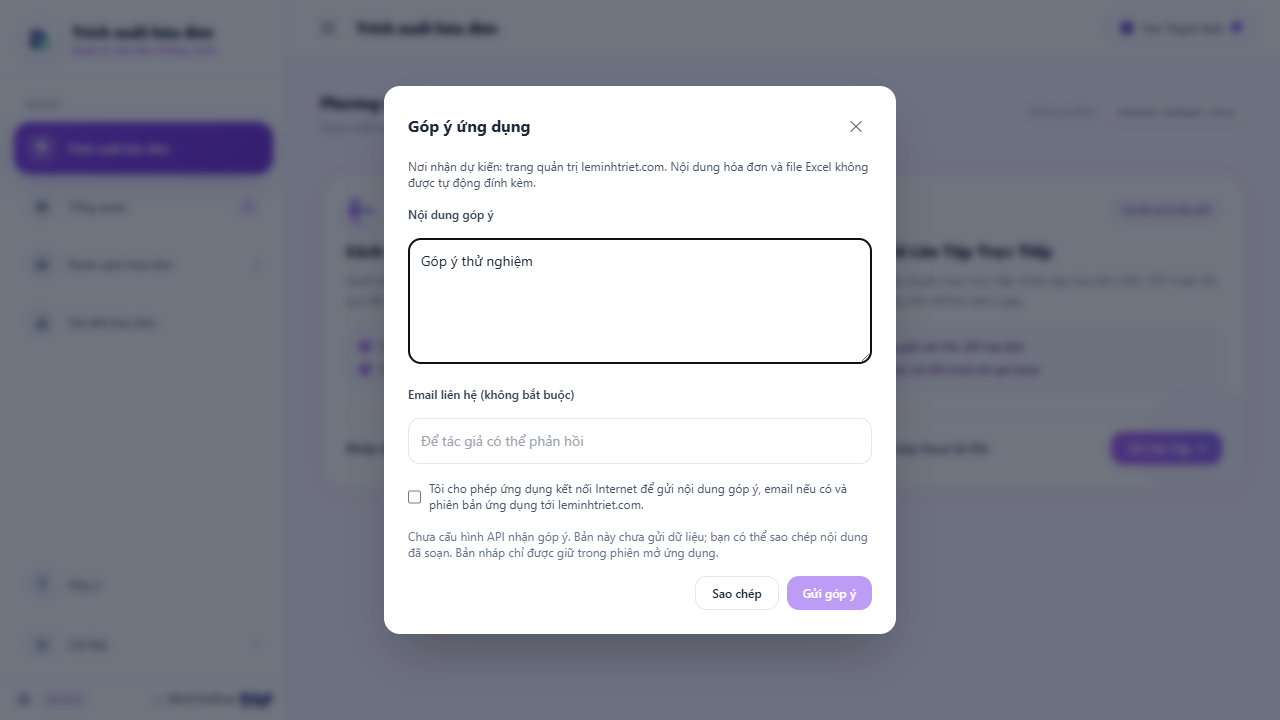
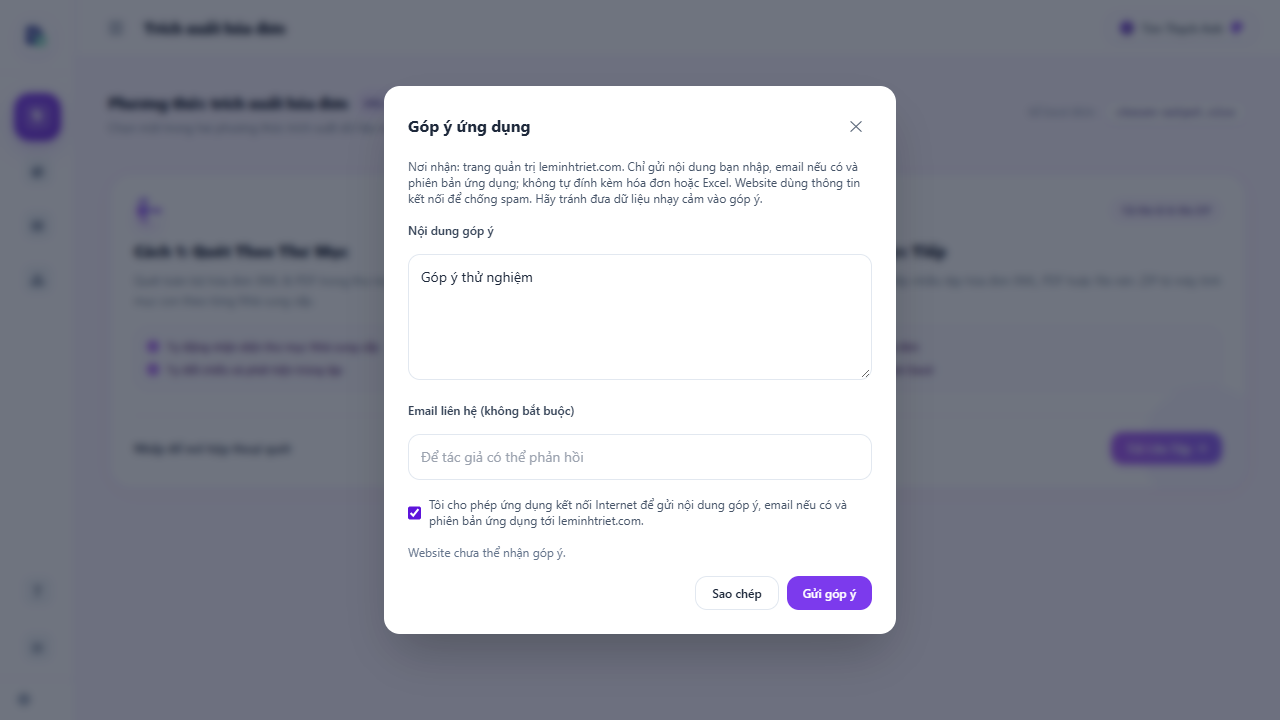
Send opted-in feedback to the website with explicit idempotent retries

diff --git a/static/js/app.js b/static/js/app.js
@@ -2681,42 +2681,68 @@ async function loadOnboarding() {
     updateOnboardingButton();
 }
 
-// Không kết nối mạng khi mở/soạn góp ý; chỉ bật gửi sau khi tích hợp API thật.
+// Gửi chỉ qua thao tác chủ động và đồng ý từng lần; không có gửi nền.
 function initFeedback() {
     const modal = document.getElementById('feedback-modal');
     const open = document.getElementById('btn-open-feedback');
     const message = document.getElementById('feedback-message');
+    const email = document.getElementById('feedback-email');
     const copy = document.getElementById('btn-copy-feedback');
     const consent = document.getElementById('feedback-consent');
-    let previousFocus;
+    const send = document.getElementById('btn-send-feedback');
+    const closeButton = document.getElementById('btn-close-feedback');
+    const status = document.getElementById('feedback-status');
+    let previousFocus, busy = false, requestId, previousPayload;
+    const update = () => {
+        send.disabled = busy || !consent.checked || message.value.trim().length < 10 || message.value.trim().length > 4000 || !email.checkValidity();
+        copy.disabled = busy || !message.value.trim();
+        [message, email, consent, closeButton].forEach(element => {element.disabled = busy;});
+    };
     const close = () => {
+        if (busy) return;
         modal.classList.add('hidden'); modal.classList.remove('flex');
-        consent.checked = false;
-        setAppInert(false);
-        previousFocus?.focus();
+        consent.checked = false; update(); setAppInert(false); previousFocus?.focus();
     };
     open.addEventListener('click', () => {
         previousFocus = document.activeElement;
-        consent.checked = false;
+        consent.checked = false; update();
         modal.classList.remove('hidden'); modal.classList.add('flex');
         setAppInert(true); message.focus();
     });
-    document.getElementById('btn-close-feedback').addEventListener('click', close);
+    closeButton.addEventListener('click', close);
     modal.addEventListener('click', event => {if (event.target === modal) close();});
     document.addEventListener('keydown', event => {
         if (modal.classList.contains('hidden')) return;
         if (event.key === 'Escape') {event.preventDefault(); close();}
         else trapDialogTab(event, modal);
     });
-    message.addEventListener('input', () => {copy.disabled = !message.value.trim();});
+    [message, email, consent].forEach(element => element.addEventListener('input', update));
     copy.addEventListener('click', async () => {
-        const email = document.getElementById('feedback-email').value.trim();
         try {
-            await navigator.clipboard.writeText(message.value.trim() + (email ? `\nEmail: ${email}` : ''));
-            document.getElementById('feedback-status').textContent = 'Đã sao chép bản nháp. Chưa gửi dữ liệu lên Internet.';
+            await navigator.clipboard.writeText(message.value.trim() + (email.value.trim() ? `\nEmail: ${email.value.trim()}` : ''));
+            status.textContent = 'Đã sao chép bản nháp.';
         } catch (err) {
-            document.getElementById('feedback-status').textContent = 'Không thể sao chép tự động. Hãy chọn nội dung và nhấn Ctrl+C.';
+            status.textContent = 'Không thể sao chép tự động. Hãy chọn nội dung và nhấn Ctrl+C.';
             message.focus(); message.select();
         }
     });
+    send.addEventListener('click', async () => {
+        update(); if (send.disabled) return;
+        const fields = {message:message.value.trim(), email:email.value.trim(), consent:true, consent_version:'feedback-v1'};
+        const fingerprint = JSON.stringify(fields);
+        // Preserve the ID after an ambiguous network failure; explicit retries are idempotent.
+        if (fingerprint !== previousPayload) {requestId = crypto.randomUUID(); previousPayload = fingerprint;}
+        busy = true; update(); send.textContent = 'Đang gửi…'; status.textContent = 'Đang kết nối leminhtriet.com để gửi góp ý…';
+        try {
+            const response = await fetch('/api/feedback', {method:'POST', headers:{'Content-Type':'application/json'},
+                body:JSON.stringify({...fields, request_id:requestId}), signal:AbortSignal.timeout(25000)});
+            const result = await response.json();
+            if (!response.ok || !result.success) throw new Error(result.error || 'Chưa nhận được xác nhận gửi. Nội dung được giữ để bạn thử lại.');
+            status.textContent = 'Đã gửi góp ý. Cảm ơn bạn!';
+            message.value = ''; email.value = ''; consent.checked = false; previousPayload = undefined; requestId = undefined;
+        } catch (err) {
+            status.textContent = err.name === 'TimeoutError' ? 'Chưa nhận được xác nhận gửi. Nội dung được giữ; bạn có thể chủ động thử lại.' : err.message;
+        } finally {busy = false; send.textContent = 'Gửi góp ý'; update();}
+    });
+    update();
 }

diff --git a/templates/index.html b/templates/index.html
@@ -943,7 +943,7 @@
                 <h3 id="feedback-title" class="font-bold text-base text-slate-800">Góp ý ứng dụng</h3>
                 <button id="btn-close-feedback" type="button" aria-label="Đóng góp ý" class="w-8 h-8 rounded-lg hover:bg-slate-100 text-slate-600">✕</button>
             </div>
-            <p class="text-xs text-slate-600">Nơi nhận dự kiến: trang quản trị leminhtriet.com. Nội dung hóa đơn và file Excel không được tự động đính kèm.</p>
+            <p class="text-xs text-slate-600">Nơi nhận: trang quản trị leminhtriet.com. Chỉ gửi nội dung bạn nhập, email nếu có và phiên bản ứng dụng; không tự đính kèm hóa đơn hoặc Excel. Website dùng thông tin kết nối để chống spam. Hãy tránh đưa dữ liệu nhạy cảm vào góp ý.</p>
             <label class="block text-xs font-semibold text-slate-700" for="feedback-message">Nội dung góp ý</label>
             <textarea id="feedback-message" maxlength="4000" rows="5" placeholder="Điều bạn muốn cải thiện hoặc lỗi gặp phải…" class="w-full border border-slate-200 rounded-xl p-3 text-sm resize-y"></textarea>
             <label class="block text-xs font-semibold text-slate-700" for="feedback-email">Email liên hệ (không bắt buộc)</label>
@@ -952,7 +952,7 @@
                 <input id="feedback-consent" type="checkbox" class="accent-pink-600 mt-0.5">
                 <span>Tôi cho phép ứng dụng kết nối Internet để gửi nội dung góp ý, email nếu có và phiên bản ứng dụng tới leminhtriet.com.</span>
             </label>
-            <p id="feedback-status" role="status" class="text-xs text-slate-500">Chưa cấu hình API nhận góp ý. Bản này chưa gửi dữ liệu; bạn có thể sao chép nội dung đã soạn. Bản nháp chỉ được giữ trong phiên mở ứng dụng.</p>
+            <p id="feedback-status" role="status" class="text-xs text-slate-500">Chỉ kết nối Internet khi bạn cho phép và bấm Gửi. Nội dung cần từ 10 đến 4.000 ký tự. Bản nháp chỉ giữ trong phiên mở ứng dụng; nếu gửi lỗi bạn có thể thử lại hoặc sao chép.</p>
             <div class="flex gap-2 justify-end">
                 <button id="btn-copy-feedback" type="button" disabled class="px-4 py-2 rounded-xl border border-slate-200 text-xs font-semibold disabled:opacity-50">Sao chép</button>
                 <button id="btn-send-feedback" type="button" disabled class="px-4 py-2 rounded-xl bg-pink-600 text-white text-xs font-semibold disabled:opacity-50">Gửi góp ý</button>

diff --git a/terms.py b/terms.py
@@ -1,9 +1,9 @@
 """Nội dung điều khoản dùng chung cho UI và tài liệu; không thay giấy phép MIT."""
-TERMS_VERSION = '2026-10-07'
+TERMS_VERSION = '2026-10-07.1'
 TERMS_SECTIONS = [
     ('1. Phạm vi ứng dụng', 'Trích xuất hóa đơn do Lê Minh Triết (MinhTrietEras) phát triển để đọc hóa đơn XML/PDF và tổng hợp sang Excel. Ứng dụng hỗ trợ công việc nhập liệu; không thay thế hóa đơn gốc, phần mềm kế toán, tư vấn thuế hoặc xác minh tính hợp pháp/chữ ký số của hóa đơn.'),
     ('2. Sử dụng và quyền đối với phần mềm', 'Bạn chỉ nên xử lý các tài liệu mà mình có quyền sử dụng và chịu trách nhiệm về mục đích sử dụng hợp pháp. Mã nguồn được cấp phép MIT theo file LICENSE đi kèm, gồm quyền sử dụng, sửa đổi và phân phối với thông báo bản quyền/giấy phép được giữ theo MIT. Điều khoản này không thu hẹp các quyền đã cấp trong LICENSE. Các thành phần bên thứ ba tuân theo giấy phép riêng đi kèm.'),
-    ('3. Dữ liệu và kết nối mạng', 'Bản ứng dụng hiện tại xử lý hóa đơn trên máy của bạn, lưu Excel vào vị trí bạn chọn và không gửi nội dung hóa đơn lên máy chủ tác giả. Cấu hình, phiên bản điều khoản đã chấp nhận và thời điểm chấp nhận được lưu tại máy. Sau thiết lập, chức năng kiểm tra cập nhật có thể kết nối GitHub; việc mở website/liên kết tải xuống cũng tạo kết nối mạng. Những dịch vụ này nhận thông tin kết nối thông thường như địa chỉ IP theo chính sách của họ. Nếu chọn thư mục đồng bộ như OneDrive, dữ liệu có thể được dịch vụ đó đồng bộ theo cấu hình của bạn.'),
+    ('3. Dữ liệu và kết nối mạng', 'Bản ứng dụng hiện tại xử lý hóa đơn trên máy của bạn, lưu Excel vào vị trí bạn chọn và không gửi nội dung hóa đơn lên máy chủ tác giả. Cấu hình, phiên bản điều khoản đã chấp nhận và thời điểm chấp nhận được lưu tại máy. Sau thiết lập, chức năng kiểm tra cập nhật có thể kết nối GitHub; việc mở website/liên kết tải xuống cũng tạo kết nối mạng. Những dịch vụ này nhận thông tin kết nối thông thường như địa chỉ IP theo chính sách của họ. Góp ý là tùy chọn: chỉ khi bạn tích cho phép và bấm Gửi, ứng dụng mới gửi nội dung góp ý, email nếu bạn cung cấp, phiên bản app và mã xác nhận đồng ý tới leminhtriet.com để tác giả tiếp nhận trong trang quản trị. Không tự đính kèm hóa đơn, Excel hoặc đường dẫn máy; hãy tránh nhập dữ liệu nhạy cảm trong góp ý. Website nhận thông tin kết nối thông thường, dùng mã băm địa chỉ kết nối thay đổi theo giờ để giới hạn gửi và có thể có log hạ tầng theo chính sách website. Không tự gửi lại khi lỗi; bạn quyết định thử lại. Bản nháp chưa gửi chỉ giữ trong bộ nhớ phiên app. Bạn có thể liên hệ tác giả để yêu cầu xử lý/xóa góp ý đã gửi. Nếu chọn thư mục đồng bộ như OneDrive, dữ liệu có thể được dịch vụ đó đồng bộ theo cấu hình của bạn.'),
     ('4. Kiểm tra kết quả và sao lưu', 'Cấu trúc hóa đơn khác nhau có thể khiến việc trích xuất thiếu hoặc sai dữ liệu. Trước khi dùng kết quả để hạch toán, kê khai hoặc thanh toán, hãy đối chiếu số hóa đơn, ký hiệu, bên bán/mua, mặt hàng, tiền và thuế với tài liệu gốc. Hãy giữ hóa đơn gốc và sao lưu Excel trước thao tác ghi đè, xóa dữ liệu hoặc nâng cấp. Chỉ mở xem hóa đơn trong ứng dụng không ghi thay đổi vào Excel.'),
     ('5. Bảo đảm và trách nhiệm', 'Phần mềm được cung cấp theo tình trạng hiện có, với phạm vi bảo đảm và trách nhiệm theo LICENSE và pháp luật áp dụng. Không cam kết mọi mẫu hóa đơn đều được đọc chính xác, không có lỗi hoặc luôn tương thích với mọi thiết bị. Các nội dung này không loại trừ những quyền của người dùng hoặc nghĩa vụ của tác giả mà pháp luật không cho phép loại trừ.'),
     ('6. Cập nhật và hỗ trợ', 'Bạn có thể thay đổi nơi lưu và màu giao diện trong Cài đặt. Nên tải bản cập nhật từ kho dự án chính thức github.com/leminhtrietit/trichxuathoadon hoặc website leminhtriet.com. Khi báo lỗi, hãy che thông tin khách hàng, mã số thuế, số tài khoản và nội dung nhạy cảm không cần thiết. Việc hỗ trợ không có cam kết thời gian xử lý cố định.'),

diff --git a/feedback.py b/feedback.py
@@ -1,0 +1,68 @@
+"""Gửi góp ý theo yêu cầu rõ ràng của người dùng; endpoint cố định, không kèm file."""
+import json
+import re
+import uuid
+import config
+
+FEEDBACK_ENDPOINT = 'https://leminhtriet.com/api/app-feedback'
+FEEDBACK_CONSENT_VERSION = 'feedback-v1'
+
+class FeedbackError(Exception):
+    def __init__(self, message, status=400):
+        super().__init__(message)
+        self.status = status
+
+
+def feedback_payload(data):
+    if not isinstance(data, dict) or set(data) - {'message', 'email', 'consent', 'consent_version', 'request_id'}:
+        raise FeedbackError('Dữ liệu góp ý không hợp lệ.')
+    if data.get('consent') is not True or data.get('consent_version') != FEEDBACK_CONSENT_VERSION:
+        raise FeedbackError('Hãy cho phép kết nối Internet trước khi gửi góp ý.')
+    message = data.get('message')
+    email = data.get('email', '')
+    if not isinstance(message, str) or not 10 <= len(message.strip()) <= 4000 or '\x00' in message:
+        raise FeedbackError('Nội dung cần có từ 10 đến 4.000 ký tự.')
+    if not isinstance(email, str) or len(email.strip()) > 254 or (email.strip() and not re.fullmatch(r'[^\s@]+@[^\s@]+\.[^\s@]+', email.strip())):
+        raise FeedbackError('Email không hợp lệ.')
+    try:
+        request_id = uuid.UUID(data.get('request_id', ''))
+        if request_id.version != 4 or str(request_id) != data['request_id'].lower():
+            raise ValueError()
+    except (ValueError, TypeError, AttributeError, KeyError):
+        raise FeedbackError('Mã gửi góp ý không hợp lệ.')
+    return {'request_id': str(request_id), 'app_id': 'trich-xuat-hoa-don', 'app_version': config.APP_VERSION,
+            'message': message.strip(), 'email': email.strip(), 'consent': True,
+            'consent_version': FEEDBACK_CONSENT_VERSION}
+
+
+def send_feedback(data):
+    payload = feedback_payload(data)  # Validate consent BEFORE creating any network client.
+    import requests
+    try:
+        with requests.Session() as session:
+            session.trust_env = False
+            with session.post(FEEDBACK_ENDPOINT, json=payload, timeout=(5, 10), allow_redirects=False, stream=True,
+                              headers={'Accept': 'application/json', 'User-Agent': 'TrichXuatHoaDon/' + config.APP_VERSION}) as response:
+                if response.status_code not in (200, 201):
+                    if response.status_code == 429:
+                        raise FeedbackError('Bạn gửi quá nhiều góp ý. Vui lòng thử lại sau.', 429)
+                    if response.status_code == 409:
+                        raise FeedbackError('Mã gửi bị trùng với nội dung khác. Hãy chỉnh nội dung rồi gửi lại.', 409)
+                    raise FeedbackError('Website chưa thể nhận góp ý. Nội dung được giữ để bạn thử lại sau.', 503)
+                chunks = []
+                size = 0
+                for chunk in response.iter_content(chunk_size=4096):
+                    size += len(chunk)
+                    if size > 16384:
+                        raise FeedbackError('Phản hồi website không hợp lệ; chưa xác nhận gửi thành công.', 502)
+                    chunks.append(chunk)
+                result = json.loads(b''.join(chunks))
+                if result.get('success') is not True or result.get('id') != payload['request_id']:
+                    raise FeedbackError('Website chưa xác nhận lưu góp ý.', 502)
+                return {'success': True, 'id': result['id']}
+    except FeedbackError:
+        raise
+    except requests.RequestException:
+        raise FeedbackError('Không thể kết nối website. Hãy kiểm tra Internet rồi chủ động thử lại.', 503)
+    except (ValueError, TypeError, AttributeError):
+        raise FeedbackError('Phản hồi website không hợp lệ; chưa xác nhận gửi thành công.', 502)

diff --git a/tests/test_feedback.py b/tests/test_feedback.py
@@ -1,0 +1,51 @@
+import json
+from pathlib import Path
+import tempfile
+import unittest
+import uuid
+from unittest.mock import patch, MagicMock
+import feedback
+from terms import TERMS_VERSION
+
+class FeedbackTests(unittest.TestCase):
+    def payload(self, **changes):
+        return dict(message='Góp ý thử nghiệm', email='', consent=True, consent_version='feedback-v1', request_id=str(uuid.uuid4()), **changes)
+
+    def test_missing_consent_invalid_email_and_extra_fields_never_connect(self):
+        for changes in ({'consent':False}, {'consent_version':'old'}, {'email':'bad'}, {'message':'short'}, {'invoice_xml':'secret'}, {'request_id':'bad'}):
+            data=self.payload();data.update(changes)
+            with patch('requests.Session') as session:
+                with self.assertRaises(feedback.FeedbackError):feedback.send_feedback(data)
+                session.assert_not_called()
+
+    def test_sender_only_transmits_allowlist_fixed_https_no_redirect_no_cookies(self):
+        with patch('requests.Session') as constructor:
+            session=constructor.return_value.__enter__.return_value
+            response=session.post.return_value.__enter__.return_value
+            data=self.payload()
+            response.status_code=201;response.iter_content.return_value=[json.dumps({'success':True,'id':data['request_id']}).encode()]
+            self.assertTrue(feedback.send_feedback(data)['success'])
+            args,kw=session.post.call_args
+            self.assertEqual(args[0],feedback.FEEDBACK_ENDPOINT)
+            self.assertFalse(kw['allow_redirects']);self.assertFalse(session.trust_env)
+            self.assertEqual(set(kw['json']),{'request_id','app_id','app_version','message','email','consent','consent_version'})
+            self.assertNotIn('cookies',kw);self.assertNotIn('files',kw)
+            for code in (301,429,503):
+                response.status_code=code
+                with self.assertRaises(feedback.FeedbackError):feedback.send_feedback(self.payload())
+            response.status_code=200;response.iter_content.return_value=[b'x'*17000]
+            with self.assertRaises(feedback.FeedbackError):feedback.send_feedback(self.payload())
+
+    def test_local_route_blocks_unaccepted_setup_origin_and_network_without_consent(self):
+        import app
+        with tempfile.TemporaryDirectory() as folder, patch.object(app,'SETTINGS_FILE',str(Path(folder)/'settings.json')):
+            client=app.app.test_client()
+            with patch('feedback.send_feedback') as sender:
+                self.assertEqual(client.post('/api/feedback',json=self.payload()).status_code,403)
+                Path(app.SETTINGS_FILE).write_text(json.dumps({'setup_completed':True,'accepted_terms_version':TERMS_VERSION}),encoding='utf-8')
+                self.assertEqual(client.post('/api/feedback',json=self.payload(),headers={'Origin':'https://evil.example'}).status_code,403)
+                sender.assert_not_called()
+                sender.return_value={'success':True,'id':'receipt'}
+                self.assertEqual(client.post('/api/feedback',json=self.payload()).status_code,200)
+                self.assertEqual(sender.call_count,1)
+                self.assertEqual(client.post('/api/feedback',json=self.payload(),base_url='http://evil.example').status_code,403)

diff --git a/app.py b/app.py
@@ -125,6 +125,29 @@ def add_tracking_headers(response):
 def index():
     return render_template('index.html', app_version=config.APP_VERSION, terms_version=TERMS_VERSION, terms_sections=TERMS_SECTIONS)
 
+@app.route('/api/feedback', methods=['POST'])
+def submit_feedback():
+    from urllib.parse import urlsplit
+    from feedback import send_feedback, FeedbackError
+    # A third-party website must not turn the local desktop app into an outbound relay.
+    origin = request.headers.get('Origin')
+    host = urlsplit(request.host_url)
+    if request.remote_addr not in ('127.0.0.1', '::1') or host.hostname not in ('127.0.0.1', 'localhost', '::1'):
+        return jsonify({'success': False, 'error': 'Yêu cầu không được phép.'}), 403
+    if (origin and origin != request.host_url.rstrip('/')) or request.headers.get('Sec-Fetch-Site') == 'cross-site':
+        return jsonify({'success': False, 'error': 'Yêu cầu không được phép.'}), 403
+    if setup_required(load_user_settings()):
+        return jsonify({'success': False, 'error': 'Hãy hoàn tất thiết lập ứng dụng trước khi gửi góp ý.'}), 403
+    if not request.is_json:
+        return jsonify({'success': False, 'error': 'Dữ liệu góp ý không hợp lệ.'}), 415
+    if (request.content_length or 0) > 16384 or len(request.get_data(cache=True)) > 16384:
+        return jsonify({'success': False, 'error': 'Nội dung quá lớn.'}), 413
+    try:
+        return jsonify(send_feedback(request.get_json(silent=True)))
+    except FeedbackError as error:
+        return jsonify({'success': False, 'error': str(error)}), error.status
+
+
 @app.route('/api/status', methods=['GET'])
 def get_status():
     """Lấy trạng thái, thống kê file Excel hiện tại và metadata bản quyền hệ thống"""

diff --git a/config.py b/config.py
@@ -25,7 +25,7 @@ SAMPLE_XML_PATH = r"C:\Users\minht\Downloads\348826-T01-2026.xml"
 
 # Thông tin Tác giả & Tracking Bản Quyền
 APP_NAME = "Trích xuất hóa đơn"
-APP_VERSION = "2.0.6"
+APP_VERSION = "2.0.7"
 AUTHOR = "Lê Minh Triết"
 ORGANIZATION = "MinhTrietEras"
 WEBSITE = "https://leminhtriet.com"

diff --git a/docs/FEEDBACK_SETUP.md b/docs/FEEDBACK_SETUP.md
@@ -1,40 +1,32 @@
-# Tích hợp góp ý vào leminhtriet.com
+# Tích hợp góp ý — leminhtriet.com
 
-Trạng thái 07/10/2026 — v2.0.6: mới có giao diện bản nháp trên ứng dụng; chưa có route gửi, chưa cấu hình endpoint và chưa gửi dữ liệu. Chủ dự án chọn nhận trong trang quản trị leminhtriet.com. Chưa biết framework/backend hoặc có quyền truy cập mã nguồn website; không suy đoán endpoint đang tồn tại từ trang công khai.
+Thực trạng 07/10/2026, v2.0.7: mã nguồn gửi đã có trong app. Dự án Next.js `liquid-glass-portal` đã có API, migration Supabase và quản trị; push tại nhánh `codex/app-feedback` (commit `ee1a171`) của `leminhtrietit/leminhtriet`. **Chưa chạy migration DB thật/chưa cấu hình flag/secret/chưa deploy website và chưa gửi live.**
 
-## Kiến trúc đề xuất
+Luồng: người dùng đồng ý từng lần + bấm Gửi → Flask cục bộ → HTTPS `https://leminhtriet.com/api/app-feedback` → Supabase → `/admin/app-feedback` có đăng nhập admin. Không cần CORS cho cổng localhost hoặc SMTP. Gửi từ browser chỉ đến Flask cục bộ, endpoint website cố định do server app giữ, không cho chọn URL tùy ý.
 
-Ứng dụng → Flask cục bộ → HTTPS API của website → cơ sở dữ liệu → trang quản trị có đăng nhập.
-
-Đường dẫn đề xuất, CHƯA triển khai: `POST https://leminhtriet.com/api/app-feedback`.
-
-Payload chỉ gồm:
+## Những trường được gửi
 
 ```json
 {
+  "request_id": "d168d240-e454-45ee-b388-8a3b979eab99",
   "app_id": "trich-xuat-hoa-don",
-  "app_version": "2.0.6",
+  "app_version": "2.0.7",
   "message": "Nội dung góp ý",
   "email": "",
+  "consent": true,
   "consent_version": "feedback-v1"
 }
 ```
 
-Website xác thực kiểu dữ liệu; message trim dài 10–4000 ký tự, email tùy chọn tối đa 254 ký tự và đúng định dạng. Giới hạn tổng request nhỏ (ví dụ 16 KB), chỉ nhận app_id hợp lệ. Thành công trả HTTP 201 với `{ "success": true, "id": "..." }` sau khi đã lưu; lỗi dùng 400/413/429/5xx. Giới hạn tần suất tại server và chống spam phù hợp; không coi khóa API được nhúng trong exe là bí mật.
+Không tự đính kèm hóa đơn/XML/PDF/Excel/đường dẫn/cookie. Người gửi cần tránh nhập nội dung nhạy cảm vào lời góp ý. Mã UUID giúp retry chủ động không lưu trùng; backend chỉ báo thành công khi response xác nhận đúng mã đã gửi. Không tự queue, không tự retry; lỗi giữ draft trong bộ nhớ phiên. Không coi ô đồng ý là cấp quyền Internet toàn Windows; updater có mạng riêng như trước.
 
-Bảng đề xuất: id, app_id, app_version, message, email_nullable, consent_version, received_at_utc, status (new/reading/resolved), internal_note. Chỉ tài khoản quản trị được đọc/thay trạng thái; endpoint công khai chỉ cho tạo. Hiển thị message dưới dạng text đã escape, không render HTML người gửi. Định nghĩa thời hạn lưu/xóa và công khai nếu server ghi IP/log mạng. Không cần cấu hình SMTP vì nhận qua trang quản trị.
+## Việc cần triển khai ở website
 
-## Luồng ứng dụng khi API sẵn sàng
+1. Duyệt code và migration `supabase/migrations/20261007120000_add_app_feedback.sql`, backup/quy trình DB rồi áp dụng SQL qua migration của website. SQL tạo bảng mới/RPC; RLS không cho anon/authenticated đọc/gọi RPC. Service-role server đã có dùng cho route, không nhúng vào app hay NEXT_PUBLIC.
+2. Server cần Secret `APP_FEEDBACK_RATE_SECRET` ngẫu nhiên >=32 ký tự và flag `APP_FEEDBACK_ENABLED=true`. Không commit/ghi secret vào tài liệu. Thiếu/tắt trả 503. Supabase URL/anon key và server service role hiện có vẫn cần đúng để xác thực/lưu thật.
+3. Duyệt checkout website trước deploy: hiện có công việc khác chưa commit; build tổng thể bao gồm các file đó. `npm run cf:build` đã thành công nhưng không tự deploy.
+4. Sau khi được phép deploy, gửi một nội dung tổng hợp đã được cho phép, kiểm tra admin thấy đúng dòng, retry cùng UUID không tăng số dòng, trạng thái/ghi chú lưu được và không-admin bị chặn. Không tự gửi dữ liệu hóa đơn để thử.
 
-- Xem trước nơi nhận và những trường sẽ gửi; người dùng chủ động tích cho phép rồi bấm Gửi. Khi mở lại hộp, ô đồng ý trở về chưa tích. Không gộp vào điều khoản bắt buộc để sử dụng chức năng hóa đơn.
-- Flask cục bộ gửi HTTPS với timeout và kiểm tra chứng chỉ; chỉ chấp nhận endpoint chính thức cấu hình sẵn, không nhận URL tùy ý từ trình duyệt. Không gửi cookie/đăng nhập, XML/PDF/Excel, đường dẫn máy hoặc thông tin hóa đơn tự động. Người dùng cần tránh đưa dữ liệu nhạy cảm vào lời góp ý.
-- Không tự gửi nền, không tự gửi lại hoặc tạo hàng đợi ngầm. Lỗi mạng giữ nội dung để người dùng quyết định thử lại; chỉ báo thành công khi server xác nhận lưu. Dùng request id/idempotency khi triển khai để tránh lưu trùng nếu mất phản hồi.
-- Python gọi server nên không cần mở CORS cho các cổng localhost thay đổi. CORS cũng không phải cơ chế chống spam hay xác thực API.
-- Đây là đồng ý trong ứng dụng cho lần gửi; không phải hộp cấp quyền mạng toàn hệ thống Windows. Tính năng kiểm tra cập nhật hiện có kết nối mạng riêng.
-- Cập nhật điều khoản/phiên bản điều khoản và chính sách website theo hành vi thật trước khi bật gửi. Kiểm thử đồng ý/không đồng ý, timeout, lỗi server, rate limit, trùng request, chống chèn HTML và xác minh không gửi file.
+Website giới hạn payload 16 KB, message 10–4.000 ký tự/email <=254. SQL counter giao dịch 5 góp ý mới/giờ theo HMAC IP và 500/giờ chung; chỉ tin địa chỉ incoming Cloudflare. Mã HMAC đổi theo giờ, bucket rate cũ >48h dọn khi có submission mới. Nội dung/email góp ý không có tự hết hạn: chủ website cần rà soát/xóa theo quy trình hỗ trợ và yêu cầu người gửi. Hạ tầng có thể có log kết nối riêng. Chưa kiểm tra tranh chấp nhiều kết nối DB thật hoặc browser đăng nhập admin thật; chưa xác nhận vận hành production.
 
-## Việc cần có để hoàn tất
-
-Mã nguồn hoặc stack backend website và trang quản trị hiện có; migration bảng góp ý, route nhận POST và màn hình quản trị; triển khai HTTPS API, sau đó nối sender trong app. Nếu website tĩnh, cần backend/serverless và kho lưu riêng. Chưa triển khai phần website trong repository ứng dụng này.
-
-Tham khảo: [OWASP REST Security](https://cheatsheetseries.owasp.org/cheatsheets/REST_Security_Cheat_Sheet.html), [OWASP Input Validation](https://cheatsheetseries.owasp.org/cheatsheets/Input_Validation_Cheat_Sheet.html), [MDN CORS](https://developer.mozilla.org/en-US/docs/Web/HTTP/Guides/CORS).
+Chi tiết triển khai, contract/error và giới hạn kiểm thử nằm ở `docs/APP_FEEDBACK.md` của repository website. App v2.0.7 đã cập nhật TERMS_OF_USE/terms.py (2026-10-07.1). Không cần cung cấp khóa SMTP hoặc mật khẩu quản trị cho app.

diff --git a/TERMS_OF_USE.md b/TERMS_OF_USE.md
@@ -1,6 +1,6 @@
 # Điều khoản sử dụng — Trích xuất hóa đơn
 
-Phiên bản: 2026-10-07; áp dụng từ 07/10/2026.
+Phiên bản: 2026-10-07.1; áp dụng từ 07/10/2026.
 
 ## 1. Phạm vi ứng dụng
 
@@ -12,7 +12,7 @@ Bạn chỉ nên xử lý các tài liệu mà mình có quyền sử dụng và
 
 ## 3. Dữ liệu và kết nối mạng
 
-Bản ứng dụng hiện tại xử lý hóa đơn trên máy của bạn, lưu Excel vào vị trí bạn chọn và không gửi nội dung hóa đơn lên máy chủ tác giả. Cấu hình, phiên bản điều khoản đã chấp nhận và thời điểm chấp nhận được lưu tại máy. Sau thiết lập, chức năng kiểm tra cập nhật có thể kết nối GitHub; việc mở website/liên kết tải xuống cũng tạo kết nối mạng. Những dịch vụ này nhận thông tin kết nối thông thường như địa chỉ IP theo chính sách của họ. Nếu chọn thư mục đồng bộ như OneDrive, dữ liệu có thể được dịch vụ đó đồng bộ theo cấu hình của bạn.
+Bản ứng dụng hiện tại xử lý hóa đơn trên máy của bạn, lưu Excel vào vị trí bạn chọn và không gửi nội dung hóa đơn lên máy chủ tác giả. Cấu hình, phiên bản điều khoản đã chấp nhận và thời điểm chấp nhận được lưu tại máy. Sau thiết lập, chức năng kiểm tra cập nhật có thể kết nối GitHub; việc mở website/liên kết tải xuống cũng tạo kết nối mạng. Những dịch vụ này nhận thông tin kết nối thông thường như địa chỉ IP theo chính sách của họ. Góp ý là tùy chọn: chỉ khi bạn tích cho phép và bấm Gửi, ứng dụng mới gửi nội dung góp ý, email nếu bạn cung cấp, phiên bản app và mã xác nhận đồng ý tới leminhtriet.com để tác giả tiếp nhận trong trang quản trị. Không tự đính kèm hóa đơn, Excel hoặc đường dẫn máy; hãy tránh nhập dữ liệu nhạy cảm trong góp ý. Website nhận thông tin kết nối thông thường, dùng mã băm địa chỉ kết nối thay đổi theo giờ để giới hạn gửi và có thể có log hạ tầng theo chính sách website. Không tự gửi lại khi lỗi; bạn quyết định thử lại. Bản nháp chưa gửi chỉ giữ trong bộ nhớ phiên app. Bạn có thể liên hệ tác giả để yêu cầu xử lý/xóa góp ý đã gửi. Nếu chọn thư mục đồng bộ như OneDrive, dữ liệu có thể được dịch vụ đó đồng bộ theo cấu hình của bạn.
 
 ## 4. Kiểm tra kết quả và sao lưu
 

diff --git a/PERFORMANCE_AUDIT.md b/PERFORMANCE_AUDIT.md
@@ -4,6 +4,7 @@ Ngày kiểm tra: 07/10/2026. Phạm vi: mã nguồn Flask, PyWebView, đọc/gh
 
 ## Những thay đổi đã hoàn thành
 
+- Bổ sung v2.0.7: sender góp ý chỉ chạy sau opt-in và click, payload allowlist/no file, HTTPS cố định/no redirect; retry chủ động dùng UUID cũ, lỗi không xóa draft. 26 test backend và 5 UI đạt nguồn/exe; mock gửi chỉ trên UI, không gửi live. Website Next.js có API/admin/migration, build và 6 test đạt, chưa áp dụng DB/secret hoặc deploy. Popup giữ hành vi chỉ đọc Excel. Không có benchmark mới; exe 27.761.433 byte do có thư viện gửi HTTP.
 - Bổ sung v2.0.6: bỏ nút in, chữ ký và tham chiếu DOM chữ ký trong popup; tiêu đề “Chi tiết hóa đơn”. Thêm dấu ?/hộp góp ý với consent từng lần và sao chép bản nháp; nút gửi khóa do chưa có API website, không có sender/request gửi góp ý. 23 test backend và 5 bộ UI đạt cả nguồn và exe trên dữ liệu tạm; xem Excel giữ nguyên hash. Nhận qua quản trị leminhtriet.com còn cần triển khai website theo docs/FEEDBACK_SETUP.md. Không có đo hiệu năng mới.
 - Bổ sung v2.0.5: sửa tiền thuế XML đã khai báo bị bỏ qua, trường mở rộng/thuế suất thập phân; bỏ gán cứng 8% và thuế dòng PDF 0. Thiếu dữ liệu được hiển thị chưa xác định. Popup bỏ khối metadata sản phẩm lặp lại; mở từng dòng vẫn chỉ đọc Excel. 23 test backend và 4 bộ UI nguồn đã đạt; cả 4 bộ UI cũng đạt trên `.exe` v2.0.5. PDF mới kiểm tra qua layout text giả lập. Giữ nguyên SHA-256 Excel khi mở xem; các số đã lưu không bị tự thay.
 - Bổ sung v2.0.4: logo app được nhúng trong màn hình chờ; thiết lập lần đầu chọn output/màu và chấp nhận điều khoản, không tạo workbook trước lựa chọn. Sidebar thu gọn giữ icon và ghi nhớ. Cấu hình thay nguyên tử; cơ chế ghi Excel vẫn chưa có khóa/thay nguyên tử (mục tồn đọng). 17 test backend và ba bộ UI trên dữ liệu tạm đã đạt; cả ba bộ UI cũng đạt trên `.exe` v2.0.4, gồm thiết lập/đồng ý, ghi nhớ sidebar, quét/lưu và xem không thay đổi Excel.

diff --git a/RELEASE_NOTES_v2.0.7.md b/RELEASE_NOTES_v2.0.7.md
@@ -1,0 +1,9 @@
+# v2.0.7 — Nối góp ý với website Next.js
+
+Ngày: 07/10/2026.
+
+- Nút Gửi bật khi nội dung 10–4.000 ký tự, email tùy chọn hợp lệ và người dùng tích đồng ý. Không gửi khi mở/tích ô; chỉ kết nối khi bấm Gửi. Mở lại reset đồng ý; chưa gửi/lỗi giữ draft trong bộ nhớ phiên, không tự retry. Retry chủ động dùng cùng UUID; nhận xác nhận thành công mới xóa draft.
+- Flask POST `/api/feedback` kiểm tra setup, Origin/loopback host, kiểu/độ dài/UUID/consent; thêm app_id và phiên bản từ server. Gọi HTTPS endpoint cố định, không proxy môi trường/cookie/file/redirect; giới hạn timeout/phản hồi và xác nhận đúng UUID. Không gửi dữ liệu hóa đơn/Excel/path hoặc khóa server.
+- Điều khoản phiên bản `2026-10-07.1` bổ sung góp ý tùy chọn và dữ liệu kết nối; bản cũ hỏi chấp nhận lại một lần, giữ workbook/theme/path.
+- Website `liquid-glass-portal` đã có mã nguồn API nhận, migration Supabase và trang quản trị chỉ admin `/admin/app-feedback`, trạng thái/ghi chú/phân trang. Nhánh website `codex/app-feedback`, commit `ee1a171`. **Chưa deploy/migration/secret/flag ở production**; gửi thật chưa được kiểm chứng và có thể trả lỗi tới khi website triển khai xong.
+- 26 test backend, 5 bộ UI nguồn/exe đạt; website 6 test SQL/API/service/client, TypeScript/ESLint/build Cloudflare đạt. UI gửi dùng mock, không gửi góp ý thật. Xem README và docs/FEEDBACK_SETUP.md để tiếp tục triển khai.
